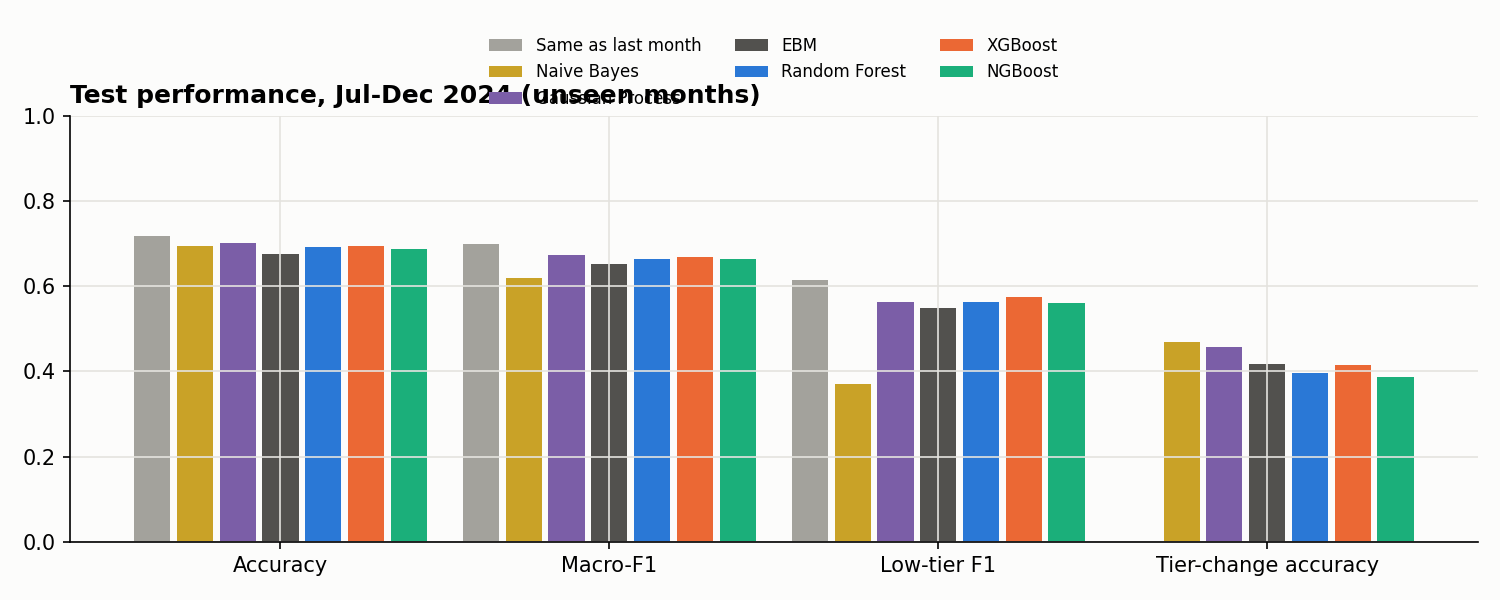
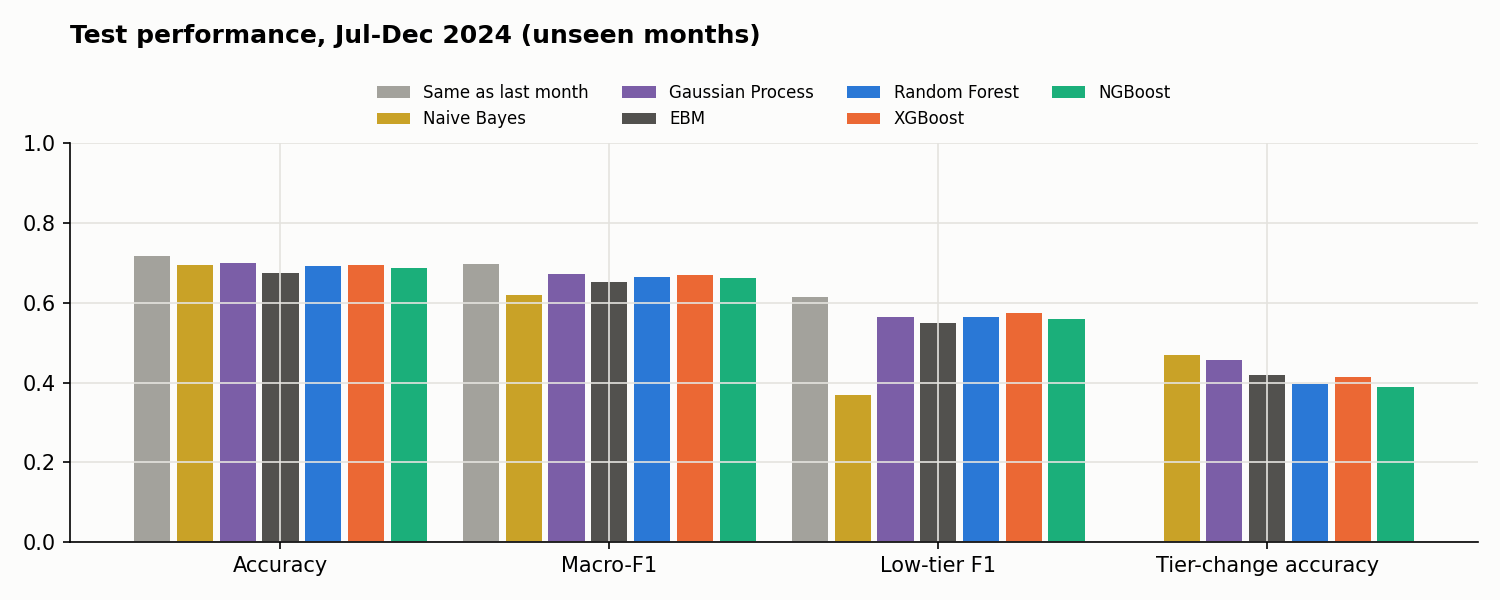
update

diff --git a/src/evaluate.py b/src/evaluate.py
@@ -99,8 +99,8 @@ def plot_comparison(table):
         ax.bar(xs, table.loc[name, cols], width=w - 0.02, color=MODEL_COLORS[name], label=name)
     ax.set_xticks(range(len(cols)), ["Accuracy", "Macro-F1", "Low-tier F1", "Tier-change accuracy"])
     ax.set_ylim(0, 1)
-    ax.set_title("Test performance, Jul-Dec 2024 (unseen months)")
-    ax.legend(ncol=3, fontsize=8, loc="upper center", bbox_to_anchor=(0.5, 1.22))
+    ax.set_title("Test performance, Jul-Dec 2024 (unseen months)", pad=48)
+    ax.legend(ncol=4, fontsize=8, loc="lower center", bbox_to_anchor=(0.5, 1.0))
     save_fig(fig, "model_comparison.png")
 
 
